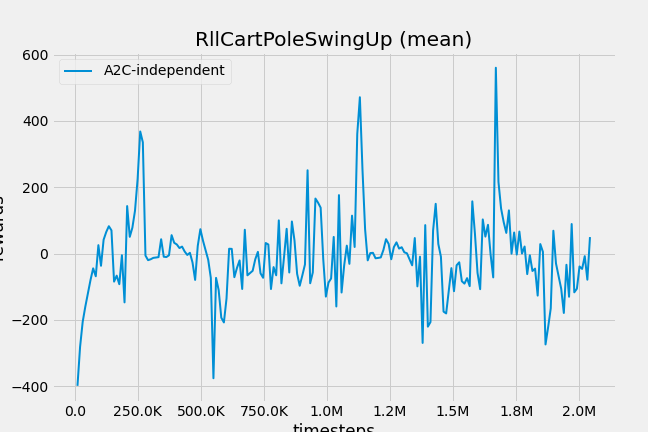
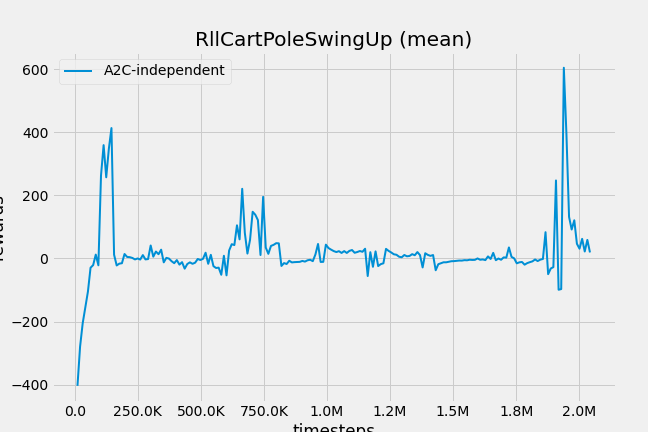
change swingup test params

diff --git a/tests/test_a2c_swingup.py b/tests/test_a2c_swingup.py
@@ -30,7 +30,7 @@ params = {
         "gae_coef": 1,
         "policy_coef": 1.0,
         "critic_coef": 1.0,
-        "entropy_coef": 1e-3,
+        "entropy_coef": 1e-5,
         "architecture": {"hidden_size": [100, 50, 25]},
     },
     "gym_env": {
